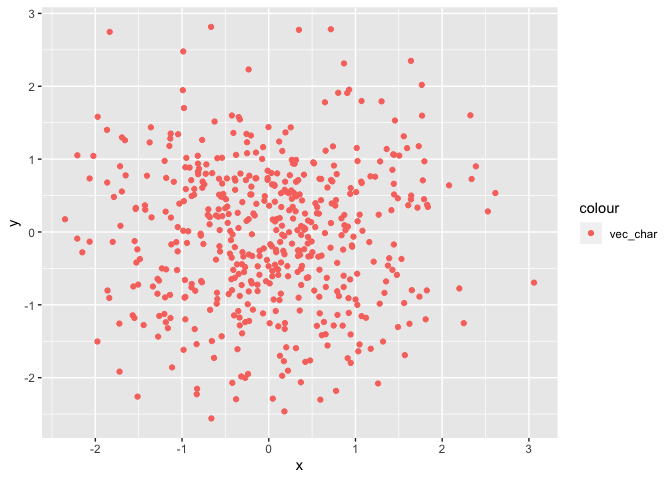
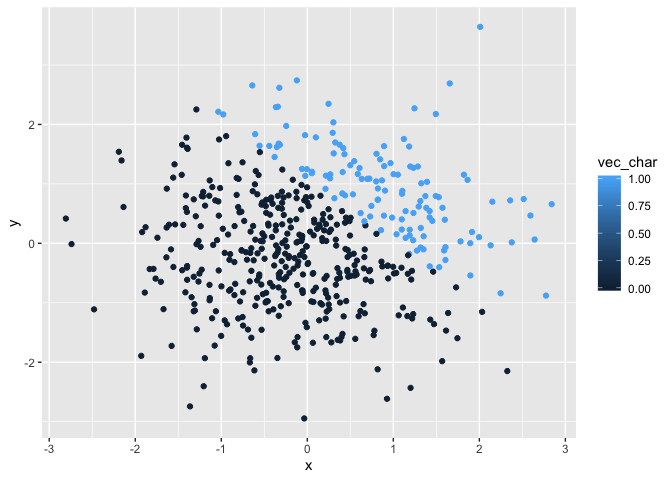
committing completed homework, will check code again in a few days

diff --git a/p8105_hw1_at3346.md b/p8105_hw1_at3346.md
@@ -1,7 +1,7 @@
 p8105\_hw1\_at3346
 ================
 Ashley Tseng
-9/12/2019
+9/20/2019
 
 ## Problem 1
 
@@ -16,7 +16,7 @@ prob1_df = tibble(
 mean(prob1_df[["random_samp"]])
 ```
 
-    ## [1] -0.001004667
+    ## [1] -0.3943447
 
 ``` r
 mean(prob1_df[["random_samp_zero"]])
@@ -42,59 +42,24 @@ mean(prob1_df[["vec_fac"]])
 
     ## [1] NA
 
-``` r
-# I am able to take the mean of "random_samp" and "random_samp_zero", but not of "vec_char" and "vec_fac" because the last two are non-numeric or non-logical variables.
-```
+I am able to take the mean of “random\_samp” and “random\_samp\_zero”,
+but not of “vec\_char” and “vec\_fac” because the last two are
+non-numeric
+variables.
 
 ``` r
+# Applying the as.numeric function to the logical, character, and factor variables:
 transform(prob1_df, random_samp_zero = as.numeric(random_samp_zero))
-```
-
-    ##   random_samp random_samp_zero vec_char vec_fac
-    ## 1  -0.2520596                0      red    high
-    ## 2   1.5482017                1   orange  medium
-    ## 3   0.9386551                1   yellow     low
-    ## 4  -0.2608185                0    green    high
-    ## 5  -1.6968826                0     blue  medium
-    ## 6   1.2364250                1   purple     low
-    ## 7  -0.5685397                0     pink    high
-    ## 8  -0.9530188                0    black  medium
-
-``` r
-transform(prob1_df, vec_char = as.numeric(vec_char))
-```
-
-    ## Warning in eval(substitute(list(...)), `_data`, parent.frame()): NAs
-    ## introduced by coercion
-
-    ##   random_samp random_samp_zero vec_char vec_fac
-    ## 1  -0.2520596            FALSE       NA    high
-    ## 2   1.5482017             TRUE       NA  medium
-    ## 3   0.9386551             TRUE       NA     low
-    ## 4  -0.2608185            FALSE       NA    high
-    ## 5  -1.6968826            FALSE       NA  medium
-    ## 6   1.2364250             TRUE       NA     low
-    ## 7  -0.5685397            FALSE       NA    high
-    ## 8  -0.9530188            FALSE       NA  medium
-
-``` r
+transform(prob1_df, vec_char = as.numeric(vec_char)
 transform(prob1_df, vec_fac = as.numeric(vec_fac))
 ```
 
-    ##   random_samp random_samp_zero vec_char vec_fac
-    ## 1  -0.2520596            FALSE      red       1
-    ## 2   1.5482017             TRUE   orange       3
-    ## 3   0.9386551             TRUE   yellow       2
-    ## 4  -0.2608185            FALSE    green       1
-    ## 5  -1.6968826            FALSE     blue       3
-    ## 6   1.2364250             TRUE   purple       2
-    ## 7  -0.5685397            FALSE     pink       1
-    ## 8  -0.9530188            FALSE    black       3
-
-``` r
-# What happens, and why? Does this help explain what happens when you try to take the mean?
-# I am able to convert "random_samp_zero" and "vec_fac", but not "vec_char". 
-```
+I am able to convert “random\_samp\_zero” and “vec\_fac”, but not
+“vec\_char”. The factor variable recognizes that my variable has three
+different levels, hence why I am able to convert “vec\_fac” to a numeric
+variable. However, R was unable to take the mean of the factor variable
+when the levels were
+non-numeric.
 
 ``` r
 # Convert the logical vector to numeric, and multiply the random sample by the result:
@@ -120,49 +85,50 @@ prob2_df = tibble(
   x = rnorm(500),
   y = rnorm(500),
   vec_log = x + y > 1,
-  vec_char = as.numeric(vec_log),
+  vec_num = as.numeric(vec_log),
   vec_fac = factor(vec_log)
 )
 
-nrow(prob2_df)
-```
+prob2_df_nrow = nrow(prob2_df)
+prob2_df_ncol = ncol(prob2_df)
 
-    ## [1] 500
-
-``` r
-ncol(prob2_df)
-```
-
-    ## [1] 5
-
-``` r
 mean_x = mean(pull(prob2_df, x)) 
 median_x = median(pull(prob2_df, x)) 
 sd_x = sd(pull(prob2_df, x)) 
+
+vec_gr1 = mean(pull(prob2_df, vec_num))
 ```
 
-The number of rows in the dataset is `nrow(prob2_df)`. The number of
-columns in the dataset is `ncol(prob2_df)`. The mean of x is 0.01. The
-median of x is 0.04. The standard deviation of x is 0.96. The proportion
-of cases for which x + y \> 1 is `x + y > 1`.
+The number of rows in the dataset is 500. The number of columns in the
+dataset is 5. The mean of x is -0.07. The median of x is -0.05. The
+standard deviation of x is 1. The proportion of cases for which x + y \>
+1 is 0.
 
 ``` r
-## Scatterplot of y vs x; color points using the logical variable 
-ggplot(prob2_df, aes(x = x, y = y, color = "vec_log")) + geom_point()
+# Scatterplot of y vs x; color points using the logical variable:
+plot1 = ggplot(prob2_df, aes(x = x, y = y, color = vec_log)) + geom_point()
+
+# Scatterplot of y vs x; color points using the numeric variable:
+plot2 = ggplot(prob2_df, aes(x = x, y = y, color = vec_num)) + geom_point()
+
+# Scatterplot of y vs x; color points using the factor variable:
+plot3 = ggplot(prob2_df, aes(x = x, y = y, color = vec_fac)) + geom_point()
+
+ggsave("plot1.pdf")
 ```
 
-![](p8105_hw1_at3346_files/figure-gfm/problem_2_scatterplots-1.png)<!-- -->
+On the scatterplot for the logical variable, points for which “vec\_log”
+= TRUE are displayed in blue while points for which “vec\_log” = FALSE
+are displayed in orange The variable is being displayed as a binary
+variable.
 
-``` r
-## Scatterplot of y vs x; color points using the numeric variable 
-ggplot(prob2_df, aes(x = x, y = y, color = "vec_char")) + geom_point()
-```
+On the scatterplot for the numeric variable, the legend is a gradient
+color scale, reflecting a continuous variable. If we look more closely,
+the points for which “vec\_num” = 0 are displayed in dark blue while
+“vec\_num” = 1 are displayed in light blue, indicating that there are
+only two different values being displayed (0 or 1).
 
-![](p8105_hw1_at3346_files/figure-gfm/problem_2_scatterplots-2.png)<!-- -->
-
-``` r
-## Scatterplot of y vs x; color points using the factor variable 
-ggplot(prob2_df, aes(x = x, y = y, color = "vec_fac")) + geom_point()
-```
-
-![](p8105_hw1_at3346_files/figure-gfm/problem_2_scatterplots-3.png)<!-- -->
+On the scatterplot for the factor variable, points for which “vec\_fac”
+= TRUE are displayed in teal while “vec\_fac” = FALSE are displayed in
+orange The variable is being displayed as a binary variable. The plot
+for “vec\_fac” looks identical to the plot for “vec\_log”.
